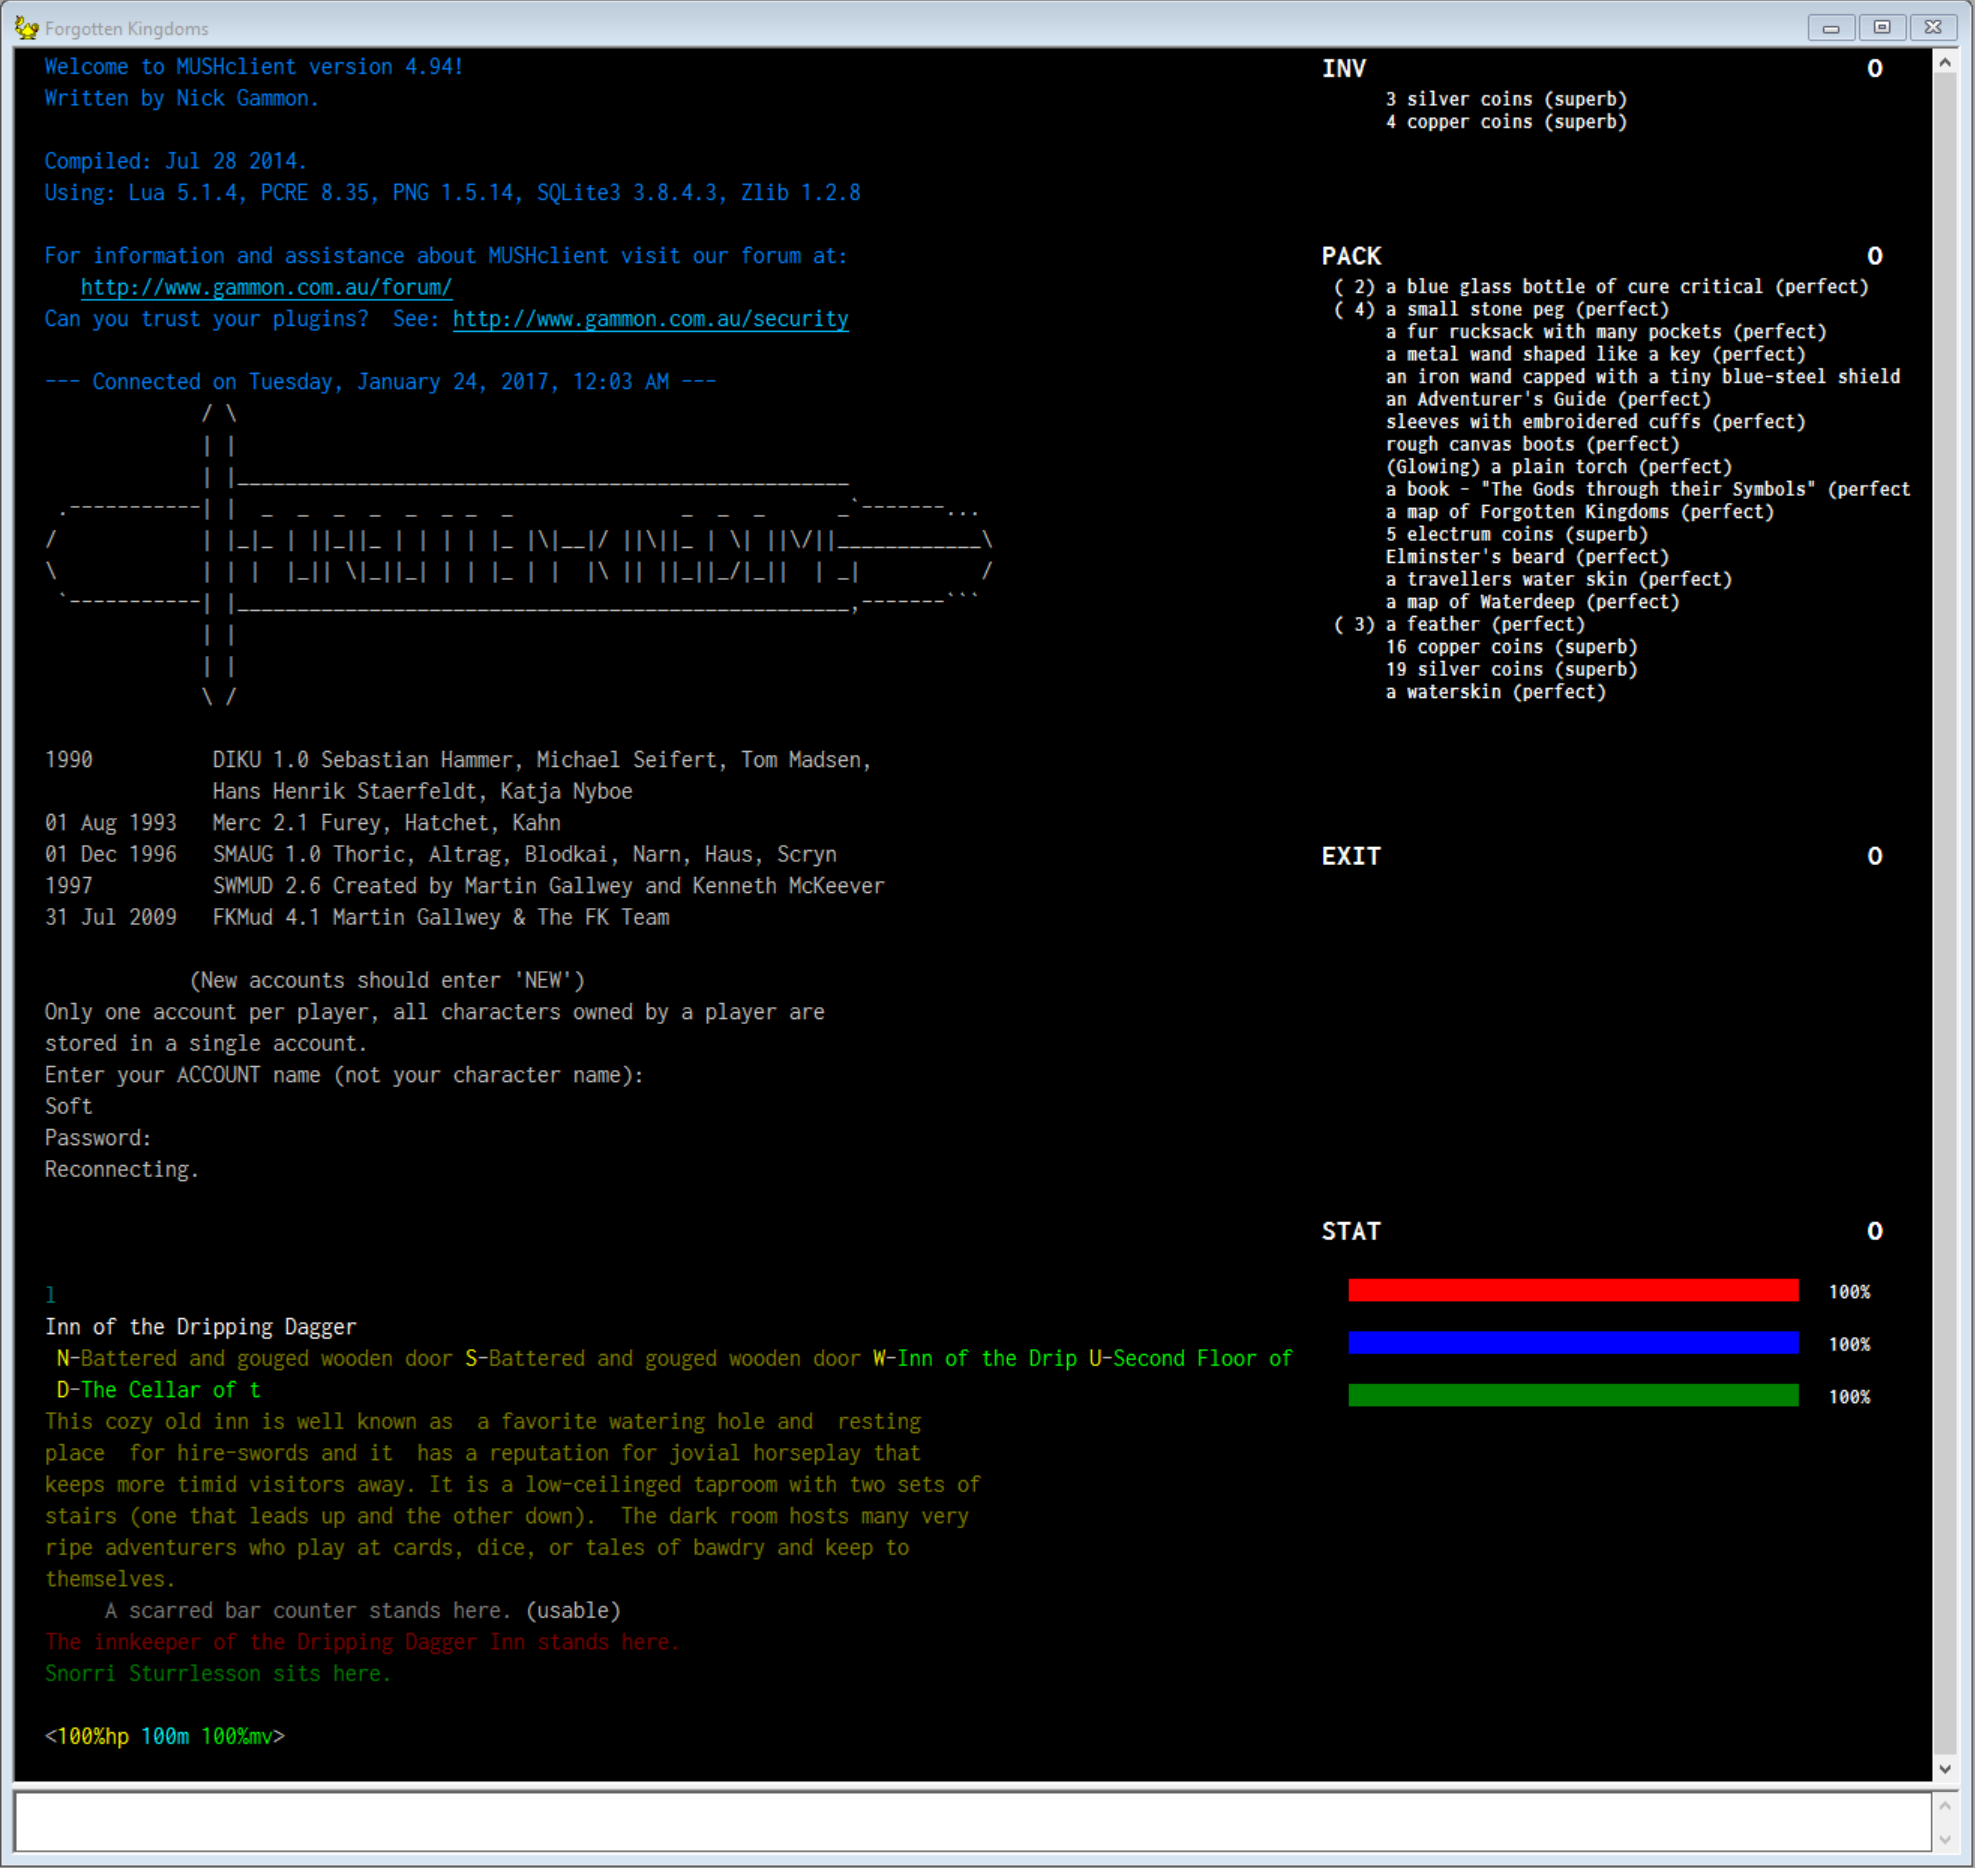
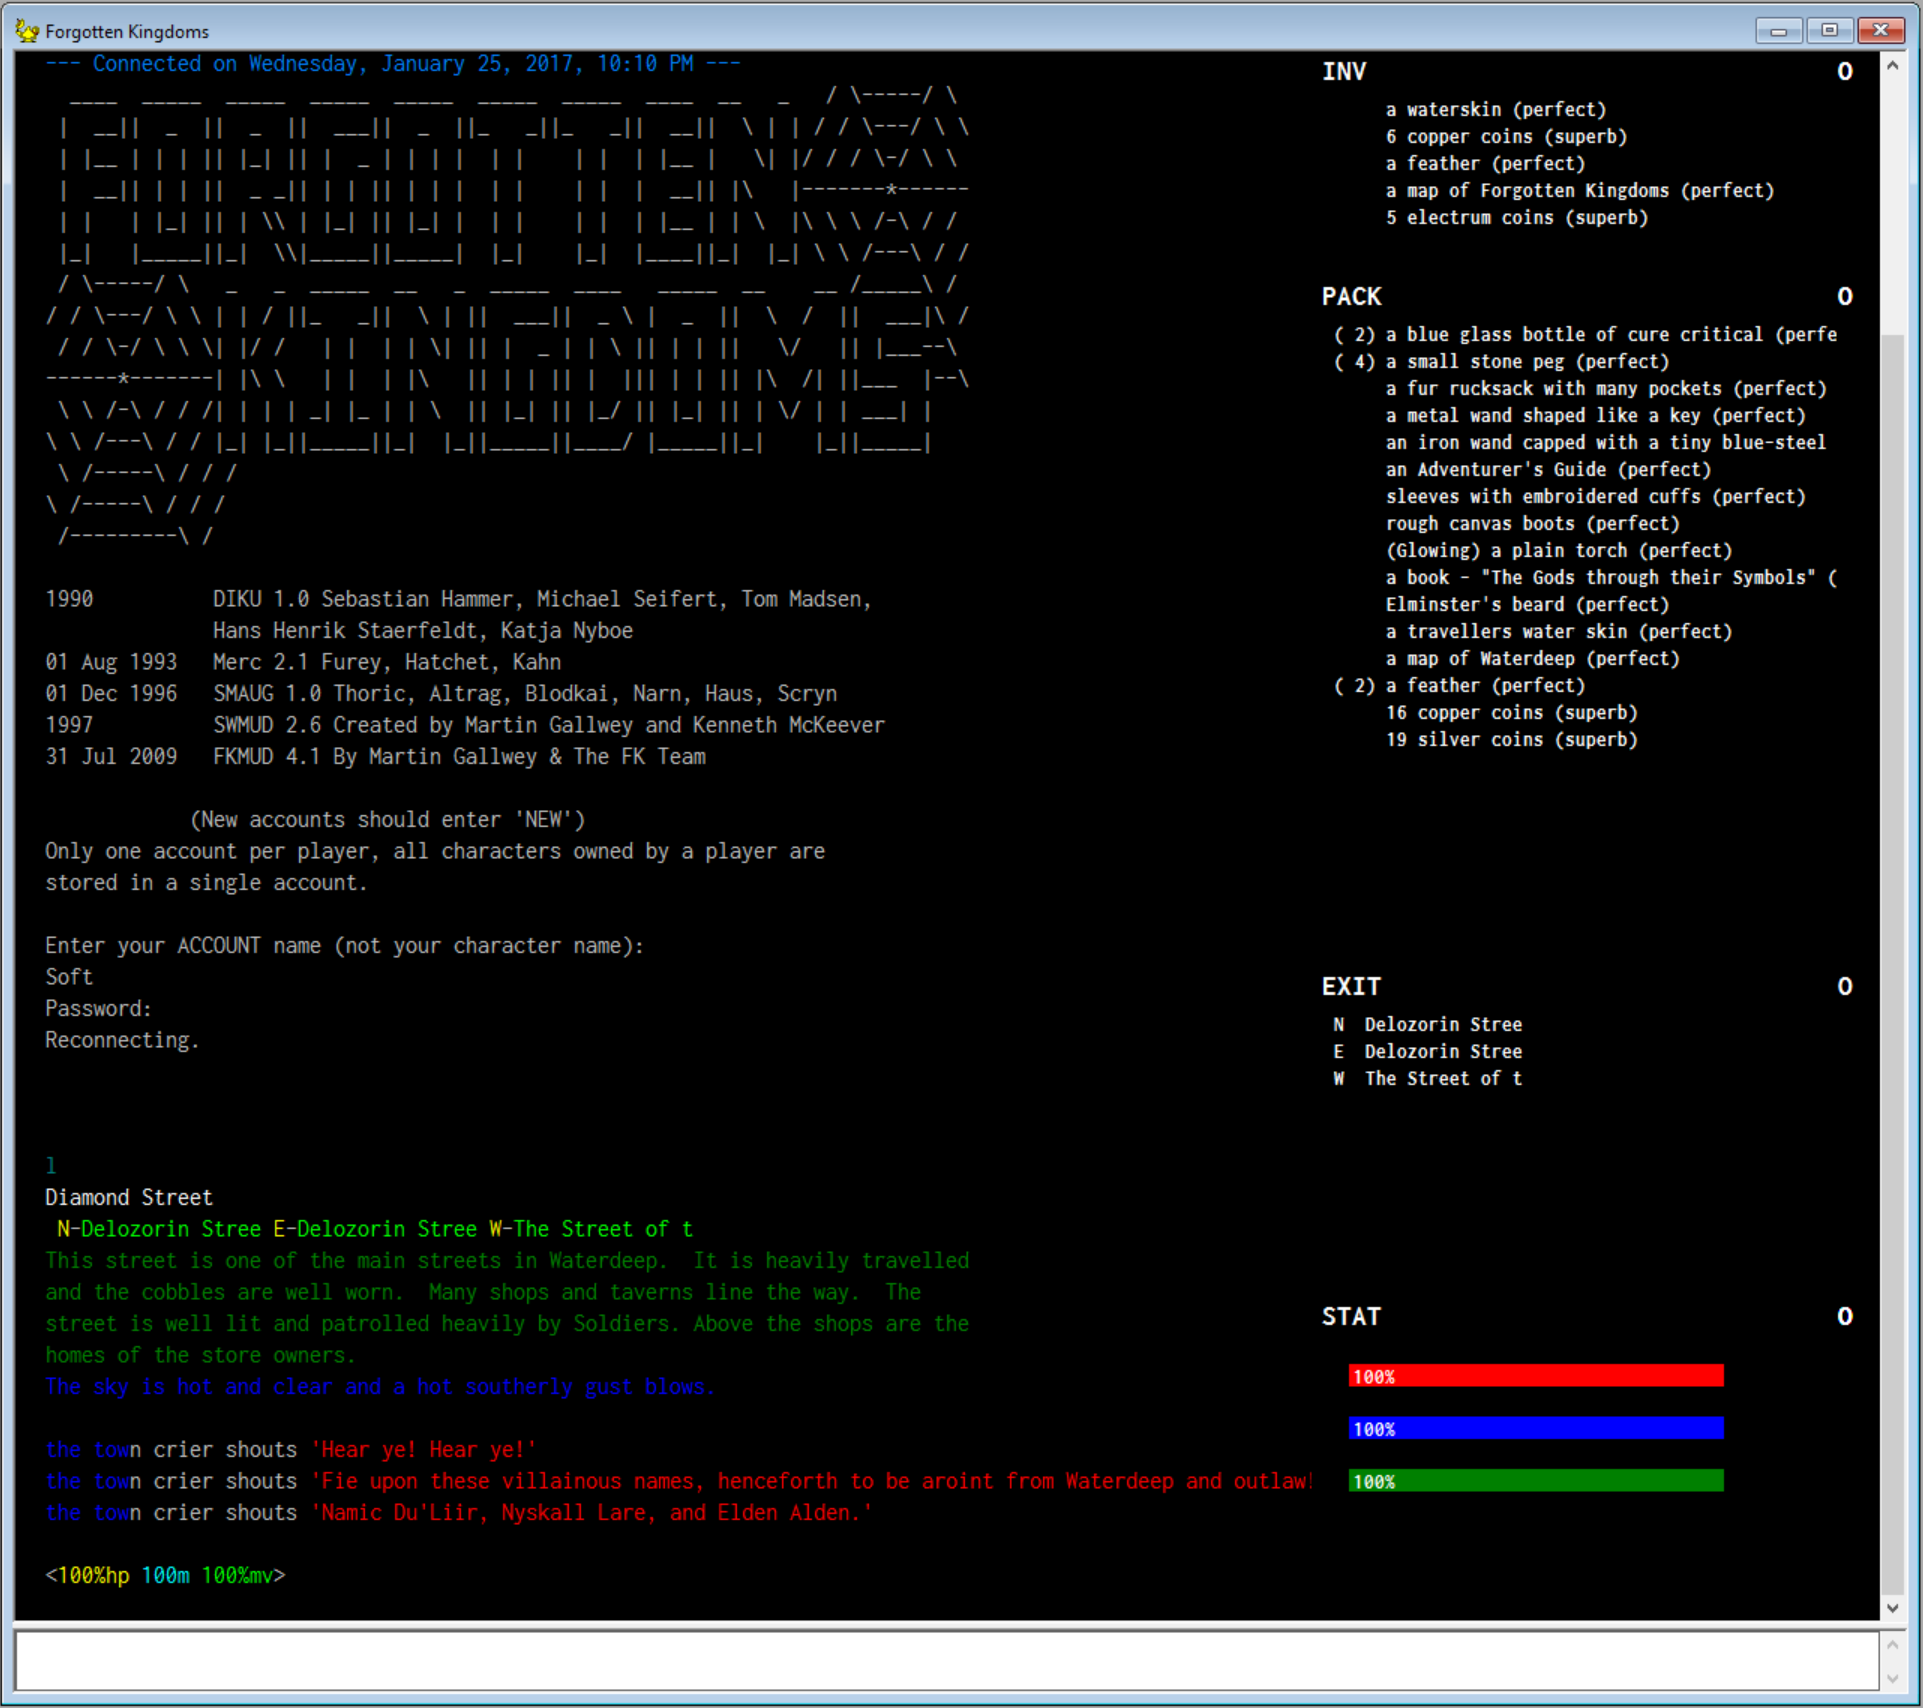
Completed Exits trigger and display

diff --git a/README.md b/README.md
@@ -5,6 +5,7 @@ This is a MUSHclient plugin for Forgotten Kingdoms.
 1. Inventory
 2. Backpack
 3. Player Status
+4. Area Exits
 
 
 ## INSTALLATION
@@ -16,3 +17,7 @@ This is a MUSHclient plugin for Forgotten Kingdoms.
 
 ## SCREENSHOT
 [![](https://github.com/codypersinger/MUSHclient_FK_Plugin/blob/master/screenshot.PNG?raw=true)](https://github.com/codypersinger/MUSHclient_FK_Plugin/blob/master/screenshot.PNG?raw=true)
+
+
+### Special Thanks
+An extra special thanks to Nick Gammon for creating MUSHclient, and to MUSHclient forum user Worstje for helping with a particularly tricky Exits trigger.
